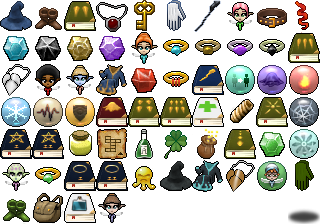
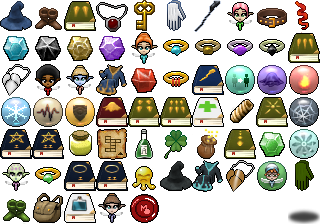
ADD New item: better prices

Changed region(s): [[0.4062, 0.8438, 0.5, 1.0]]

diff --git a/src/Items.h b/src/Items.h
@@ -158,6 +158,7 @@ enum enumItemType
   ItemBag,
   ItemBookAlchemy,
   ItemFairyStone,
+  ItemMerchant,
 
   NUMBER_ITEMS
 };
@@ -541,6 +542,10 @@ const itemStuct items[NUMBER_ITEMS] =
     ItemFairyStone, "item_fairy_stone", "item_fairy_stone_desc",
     30, true, FamiliarFairyStone, false, true, true, 2, RarityUncommon, false, -1, ShotTypeStandard, SpellNone, false
   },
+  {
+    ItemMerchant, "item_merchant", "item_merchant_desc",
+    25, true, FamiliarNone, true, true, true, 1, RarityRare, false, -1, ShotTypeStandard, SpellNone, false
+  },
 };
 
 /** Item equipment type enum
@@ -611,6 +616,7 @@ enum item_equip_enum {
   EQUIP_BAG,
   EQUIP_BOOK_ALCHEMY,
   EQUIP_FAIRY_STONE,
+  EQUIP_MERCHANT,
 
   NUMBER_EQUIP_ITEMS
   };
@@ -687,6 +693,8 @@ const std::vector<item_equip_enum> sortedEquipement =
   EQUIP_SPELL_FAIRY,
 
   // others
+  EQUIP_MERCHANT,
+
   EQUIP_BOSS_KEY,
   EQUIP_FLOOR_MAP,
   EQUIP_ALCOHOL,
@@ -742,6 +750,8 @@ const std::vector<item_equip_enum> scoreEquipement =
   EQUIP_SPELL_FAIRY,
 
   // others
+  EQUIP_MERCHANT,
+
   EQUIP_BOSS_KEY,
   EQUIP_FLOOR_MAP,
   EQUIP_ALCOHOL,

diff --git a/src/ItemEntity.cpp b/src/ItemEntity.cpp
@@ -39,7 +39,10 @@ bool ItemEntity::getMerchandise()
 
 int ItemEntity::getPrice()
 {
-  return (items[itemType].price);
+  if (game().getPlayer()->isEquiped(EQUIP_MERCHANT))
+    return (items[itemType].price * 0.8f);
+  else
+    return (items[itemType].price);
 }
 
 bool ItemEntity::canBePickedUp()
